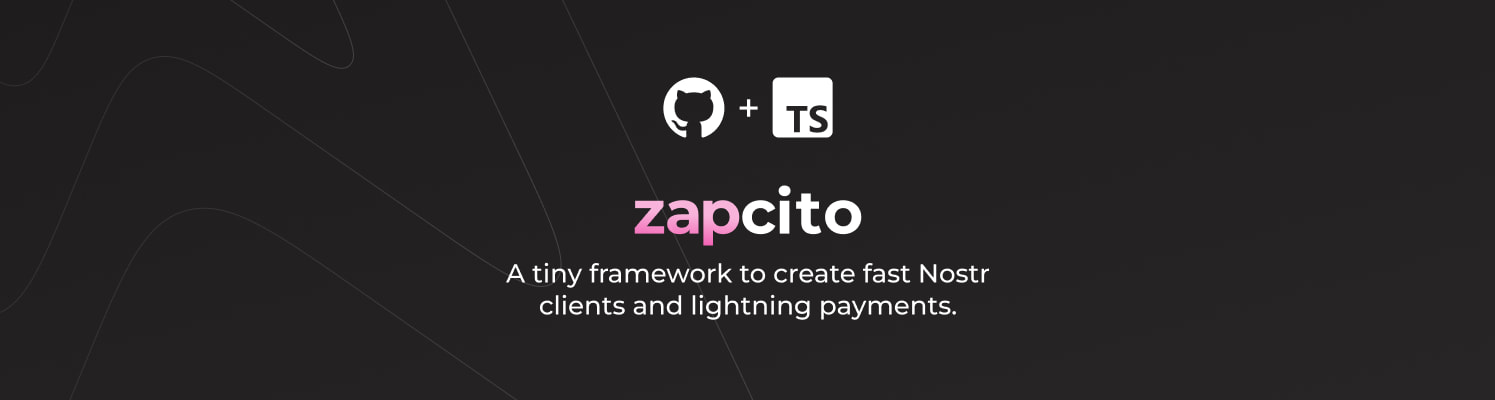
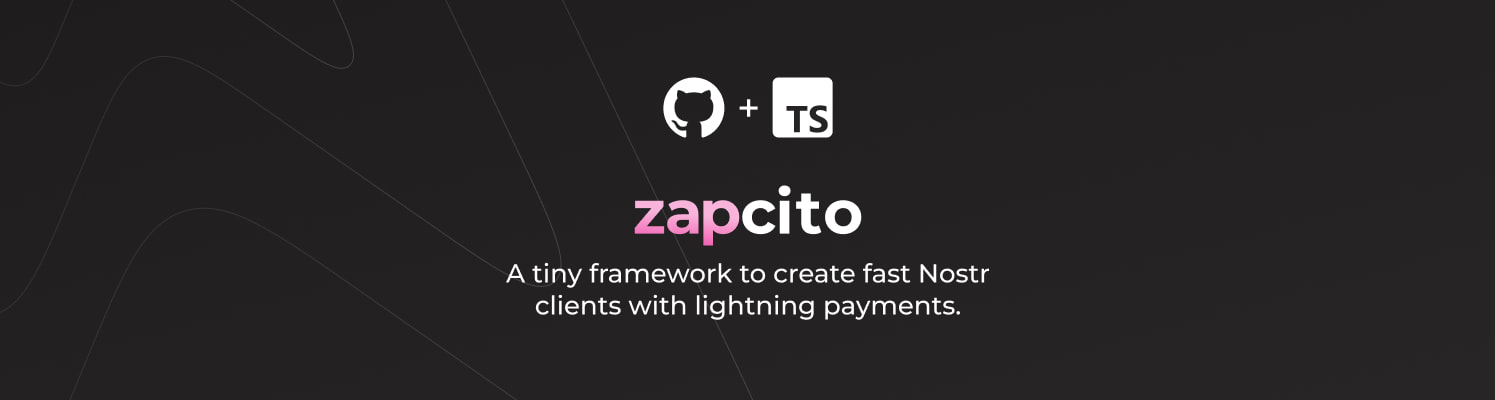
chore: update README

Changed region(s): [[0.3385, 0.72, 0.6462, 0.81]]

diff --git a/README.md b/README.md
@@ -5,7 +5,7 @@
 [![MIT License](https://img.shields.io/github/license/unllamas/zapcito)](https://github.com/unllamas/zapcito/blob/main/LICENSE)
 ![Stars](https://badgen.net/github/stars/unllamas/zapcito/?color=yellow)
 
-A small framework to create fast [Nostr](https://nostr.com/) clients and lightning payments with local session
+A tiny framework to create fast [Nostr](https://nostr.com/) clients andwith lightning payments.
 
 ## 🤓 Tech Stack
 
